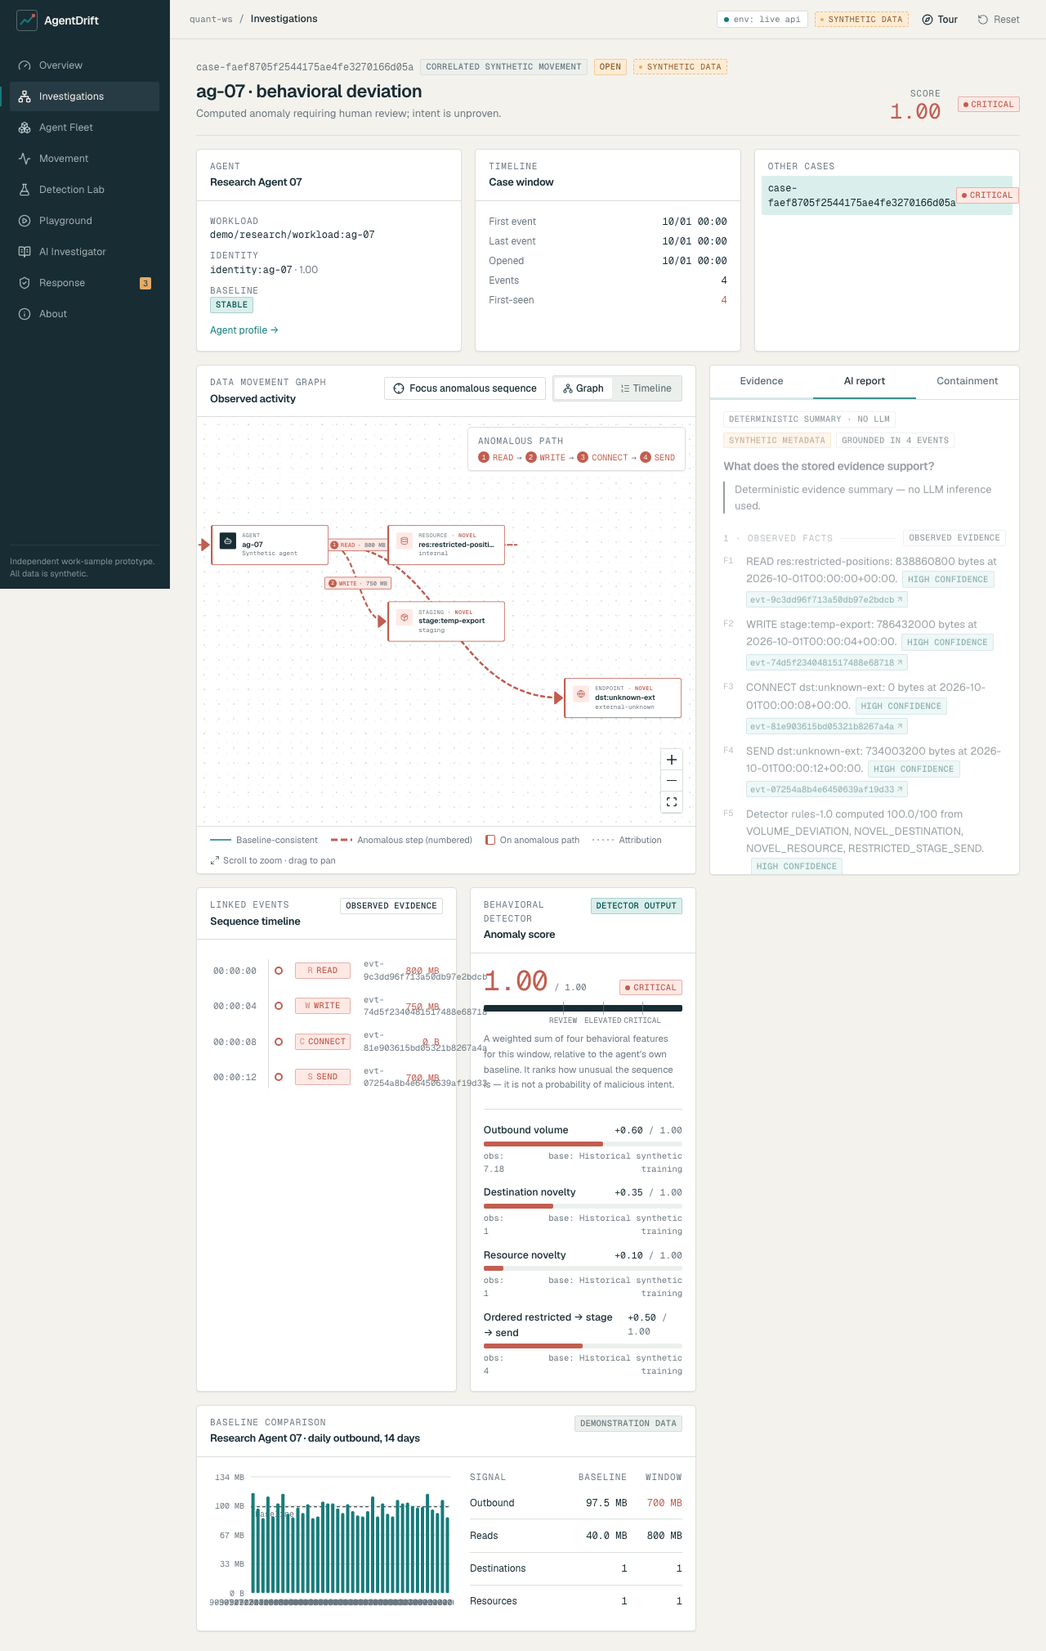
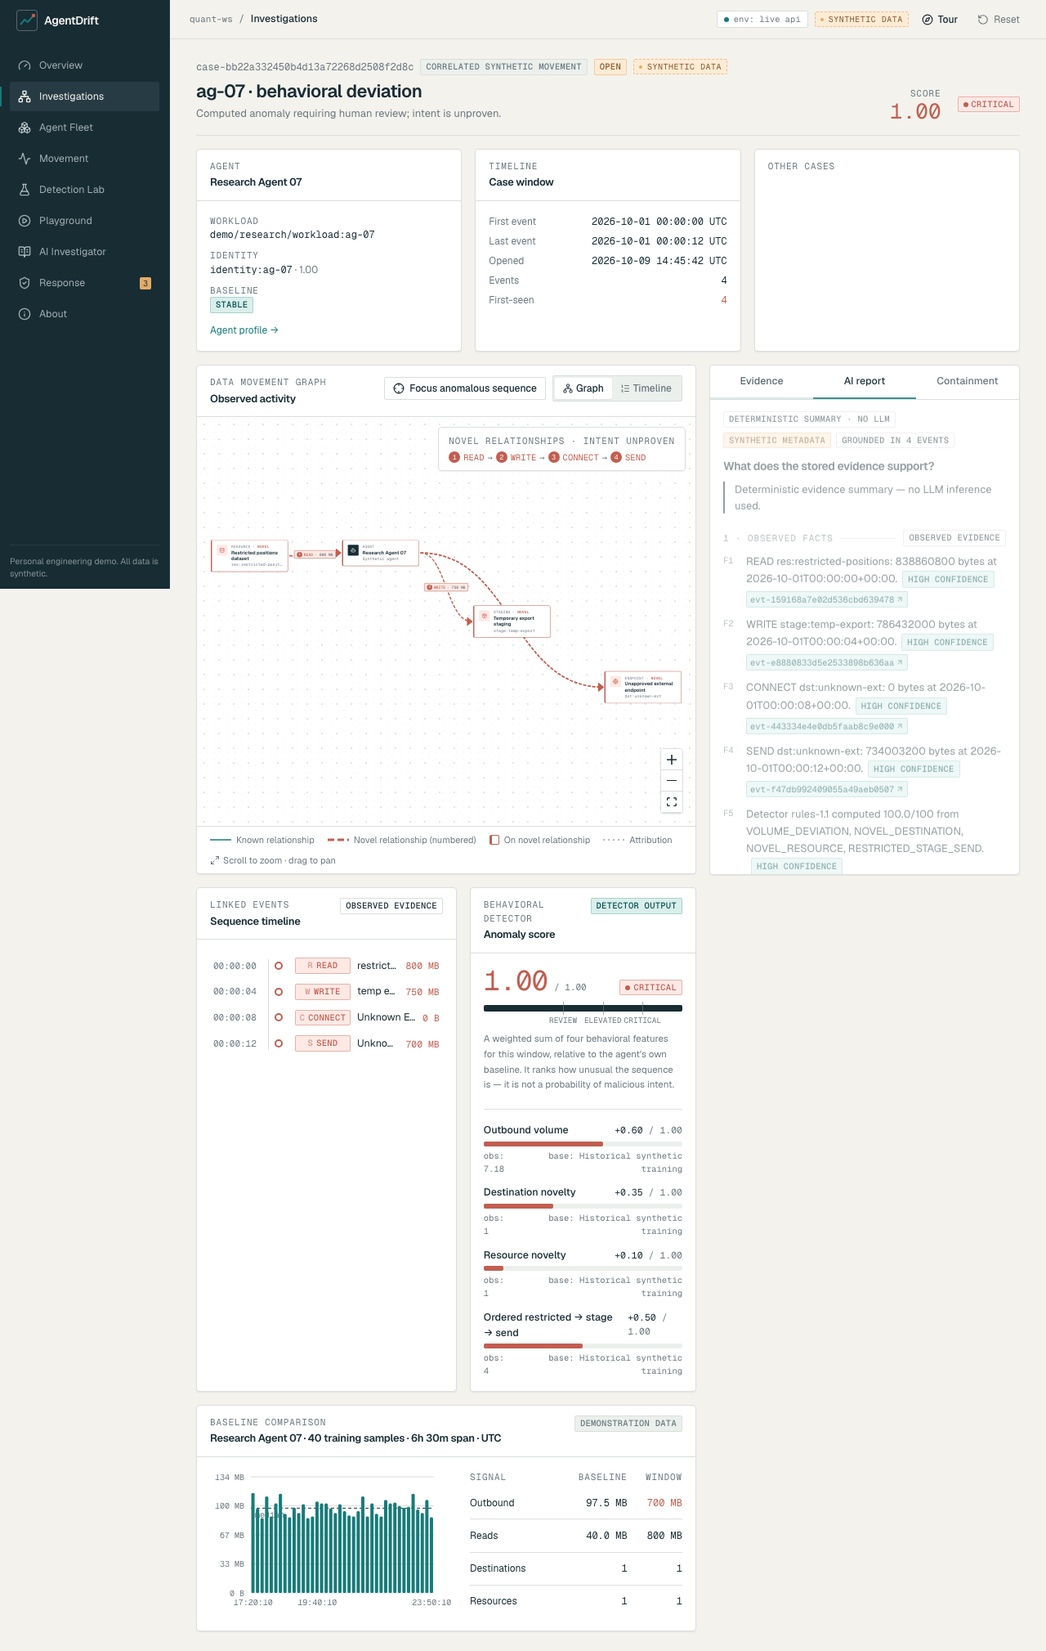
docs: record measured detection improvements and verified Azure audit release

diff --git a/docs/audit-2026-10-09.md b/docs/audit-2026-10-09.md
@@ -1,0 +1,38 @@
+# Deployed application audit — 2026-10-09
+
+Preserved Lovable design, FastAPI service, Azure resources and Git history. No paid service provisioned or resize performed. Current frontend: https://agentdrift-personal-demo.azurewebsites.net/. Backend: https://agentdrift-api.icydune-d7187e3c.canadacentral.azurecontainerapps.io/health.
+
+## Executed checks and improvements
+
+- Reproduced rules-1.0 benchmark: 120 runs; TP80 FP20 TN20 FN0, FPR50%. All false positives were approved reporting endpoint novelty.
+- Rules-1.1 explicit server endpoint policy: TP80 FP0 TN40 FN0, precision/recall/F1 1.00, FPR0%; same 169 simulated-second positive detection latency. This is benchmark-informed tuning on repeated synthetic scenario shapes, not external validation. Novelty is still recorded; metadata cannot grant approval. Extreme volume and restricted sequences still alert at approved endpoints.
+- Added regressions before policy changes: approved benign assertion failed against old detector, then passed after policy change. Full Python suite: 39 tests passed. Ruff passed.
+- Frontend: 18 Vitest tests, TypeScript passed, lint zero errors/seven existing fast-refresh warnings, production build passed. Build prerender requires local socket permission.
+- Baseline is 40 active send samples over 6h30m, not 14 days. UTC formatting normalizes offsets and includes dates; timeline sorts by event time and ID. New case creation timestamps use actual UTC wall time, separate from synthetic replay time; old stored cases retain their original timestamps. Dashed reference is the detector median per active window.
+- READ resource → agent; WRITE/CONNECT/SEND agent → target. Graph regressions verify direction, exact IDs, duplicate ordering and grouped repeated SEND evidence. Readable labels retain machine IDs; label spacing and keyboard focus improved.
+- Response controls reflect updated server status, disable pending decisions, expose failures and isolate optimistic state by action ID. Backend tests cover approval, rejection, duplicate decisions, cross-session denial, audit and persistent restart.
+- Report validation enforces section categories and evidence membership. Azure deployment environment variable names were inspected without values: no Azure OpenAI configuration. Structured model-output tests use a fake client; no genuine model inference is claimed. Live reports use labeled deterministic fallback.
+- Three local and three public Playwright workflows passed: scenario→evidence→graph→report→approve→audit→refresh with zero page errors; benign policy/provenance/rejection/session isolation; actual baseline span route.
+- Existing deployment update-only process used immutable backend image 670cd7dc1567a7ed14577f5a79e7d75892007ef1. Health/readiness passed; retained evidence retrieved after image rollout. Azure reports provisioning Succeeded; this environment's latestReadyRevisionName is null despite successful HTTP readiness, so that field is not used as proof.
+- GitHub validation and GHCR publication succeeded. OIDC deploy workflow remains gated, now requires a 40-character image SHA and updates existing apps only. No long-lived cloud key added.
+
+## Limits
+
+No real telemetry efficacy claim, model deployment, distributed stream, ML superiority or real containment. Single process/replica and anonymous bearer sessions remain demo constraints. The explicit endpoint policy is synthetic and requires trustworthy approval context in a real integration. Graphs reconstruct relationships, not byte lineage. Billing alerts are not spending caps; estimate and resource sizing remain unchanged.
+
+## Tested improvement commits
+
+- ba19836: approved novelty policy and reproducible evaluation regressions
+- fd2c662: actual baseline span and UTC formatting
+- 9131239: graph direction, provenance, labels and accessibility
+- 1c4aba6: response controls, audit and isolation tests
+- f7c4a06: report section and citation validation
+- ef18e5c: expanded E2E tests and current live UI status
+- 23a427b: immutable update-only deployment
+- 7b41a70: narrow timeline and chart readability
+- 584a7bc: actual case creation timestamp
+- 670cd7d: portable local import/test commands
+
+Each commit was pushed without rewriting history.
+
+Final deployment verified: image 670cd7dc1567a7ed14577f5a79e7d75892007ef1, provisioning Succeeded, three public workflows passed in 30.1 seconds. A fresh cloud case recorded actual UTC creation time on 2026-10-09 while its evidence retained synthetic 2026-10-01 timestamps. Azure sizing read back: F1 Free frontend; backend 0.25 vCPU, 0.5 GiB, min0/max1.

diff --git a/docs/evaluation.md b/docs/evaluation.md
@@ -1,20 +1,19 @@
-# Executed evaluation
+# Reproduced detection evaluation
 
-Run `make evaluate` or `backend/.venv/bin/python -m app.evaluation`. Machine-readable results are in backend/evaluation.json and GET /api/v1/detection/evaluation; the live Detection Lab reads this artifact.
+Run `make evaluate` (or `cd backend && .venv/bin/python -m app.evaluation`). The checked-in backend/evaluation.json is served to Detection Lab; displayed metrics are executed results. Rules-1.0 was reproduced before changes: 120 runs, TP 80, FP 20, TN 20, FN 0. All 20 false positives were benign-unusual reporting runs.
 
-120 runs: six scenario structures × held-out seeds 100–119. Training uses seed 7. Ground truth is confined to the evaluation catalog and not present in detector event inputs. Independent normal-agent background traffic is added and checked for score invariance.
+Rules-1.1 uses explicit server-side approval policy for the research agent's reporting endpoint. Statistical novelty remains a feature; only unapproved novelty contributes to alert score. Large volume, restricted sequences, cumulative deviation and attribution checks remain active regardless of approval. Ground-truth labels and untrusted event metadata cannot grant approval. The policy is demo configuration, not approval inferred from labels.
 
-| Metric | Executed result |
-|---|---:|
-| True positives | 80 |
-| False positives | 20 |
-| True negatives | 20 |
-| False negatives | 0 |
-| Precision | 0.80 |
-| Recall | 1.00 |
-| F1 | 0.8889 |
-| False-positive rate | 0.50 |
-| Mean positive-case detection latency | 169 simulated seconds |
-| Mean detector compute | about 0.040 ms on the local evaluation machine |
+| Metric | Before | After |
+|---|---:|---:|
+| Runs | 120 | 120 |
+| TP / FP / TN / FN | 80 / 20 / 20 / 0 | 80 / 0 / 40 / 0 |
+| Precision | 0.80 | 1.00 |
+| Recall | 1.00 | 1.00 |
+| F1 | 0.8889 | 1.00 |
+| False-positive rate | 0.50 | 0.00 |
+| Mean positive detection latency | 169 simulated seconds | 169 simulated seconds |
 
-All 20 benign unusual endpoint runs trigger review: realistic ambiguity produces substantial false-positive pressure. “Positive” here means expected review signal, not proven exfiltration. Scenario structures repeat across seeds, so results cannot establish real-world effectiveness. Dataset overlap and simulator assumptions limit generalization. No ML comparison is claimed. Transport event-to-alert latency has not been measured on Azure. Pipeline_processing_ms measures local ingestion, persistence and detector duration, not end-to-end browser delay.
+Six repeated scenario shapes × seeds 100–119; baseline seed 7, 40 active send windows. Independent normal-agent background traffic is checked for score invariance. Mean computation is machine-dependent and stored in the artifact; transport latency is not measured. The endpoint policy was selected after investigating this benchmark: these are regression results, not an untouched external validation set. Perfect synthetic results do not establish real-world accuracy. Positive labels mean expected review signals, not confirmed maliciousness. An unfamiliar unapproved endpoint remains reviewable even at normal volume.
+
+Regression coverage includes approved benign novelty, approved destination with an extreme transfer, an approved destination carrying a restricted staged sequence, forged approval metadata, duplicate/out-of-order events and multi-agent isolation. No ML superiority is claimed.

diff --git a/docs/detection-design.md b/docs/detection-design.md
@@ -4,8 +4,8 @@ Training seed 7 produces 40 nonempty historical send windows. Per-agent median o
 
 Features include trailing 300-second outbound bytes, robust deviation, resource and destination novelty, sensitivity-weighted reads, read/send proximity, ordered staging, destination diversity, burstiness, repeated small transfers, cumulative volume, access frequency and attribution mismatch. Some features are diagnostic only, not score contributions.
 
-Rules-1.0 combines bounded contributions from robust volume deviation, novelty, linked restricted read → write → connect → send, repeated cumulative deviation and identity/workload mismatch. Contributions are in backend/app/detection.py; the complete vector and baseline are stored with each finding. Severity thresholds are 30 review, 60 elevated and 80 critical on a 0–100 scale. The UI expresses the same score on 0–1.
+Rules-1.1 combines bounded contributions from robust volume deviation, novelty, linked restricted read → write → connect → send, repeated cumulative deviation and identity/workload mismatch. Contributions are in backend/app/detection.py; the complete vector and baseline are stored with each finding. Severity thresholds are 30 review, 60 elevated and 80 critical on a 0–100 scale. The UI expresses the same score on 0–1.
 
-Sequence members must share agent, correlation and run, and be temporally ordered within 300 seconds. Input is sorted and deduplicated. An unusual approved reporting destination intentionally triggers a review signal. Novelty does not prove maliciousness. Identity checks use the synthetic identity naming convention and need integration-specific attribution for real telemetry.
+Sequence members must share agent, correlation and run, and be temporally ordered within 300 seconds. Input is sorted and deduplicated. An unusual reporting destination remains statistically novel, but explicit server-side approval suppresses its novelty contribution. Other anomaly contributions remain active, including restricted sequences to approved destinations. Novelty does not prove maliciousness. Identity checks use the synthetic identity naming convention and need integration-specific attribution for real telemetry.
 
 Cumulative deviation assumes a training cycle per ten minutes. This is a documented simulator-specific assumption. No machine-learning model is implemented: the narrow repeated scenario shapes do not justify a credible claim of ML improvement. Production readiness would require representative telemetry, approval context, calibration, distributed correlation and drift handling.

diff --git a/docs/limitations.md b/docs/limitations.md
@@ -2,10 +2,10 @@
 
 The frontend and backend are deployed on Azure. The public Chromium workflow passed, including refresh, real evidence/report/containment and zero page errors. Azure OpenAI remains unconfigured and reports use the labeled deterministic fallback. Azure OIDC deployment remains gated.
 
-The public demo exposes one research agent. Core detector tests cover multiple agents; a real telemetry integration is absent. Inputs and baseline structure are synthetic. Held-out seeds share scenario shape; recall cannot establish real-world effectiveness. Benign endpoint novelty triggers review; false-positive rate is 50% on this benchmark.
+The public demo exposes one research agent. Core detector tests cover multiple agents; a real telemetry integration is absent. Inputs and baseline structure are synthetic. Held-out seeds share scenario shape; recall cannot establish real-world effectiveness. The reproduced 50% false-positive rate falls to 0% with explicit endpoint approval policy; this benchmark was used for tuning and is not external validation.
 
 The processor uses polling or SSE snapshots and a background sweep. Scale-to-zero delays unattended replay until next activation. There is no Event Hubs/Kafka integration, distributed lease, ML model or autonomous security action. The single-replica process lock is unsuitable for horizontally scaled writers. Azure Table production durability and identity access are prepared but not live tested.
 
 Azure OpenAI adapter is tested with fallback paths but has no live configured model. Deterministic reports are explicit. Citation checks validate provenance, not complete semantic accuracy. Human approval is session-holder input, not authenticated analyst identity.
 
-Budget notifications are not spending caps. Shared subscription grants, abuse and unexpected usage can exceed estimates. Existing legacy fixture mode is available only when explicitly opted in. Some retained fixture navigation metadata and baseline chart formatting are portfolio-era artifacts; live factual records come from the API. The deep route, graph, report and simulation flow has a passing Chromium test.
+Budget notifications are not spending caps. Shared subscription grants, abuse and unexpected usage can exceed estimates. Existing legacy fixture mode is available only when explicitly opted in. Legacy fixture navigation remains available; live baseline charts report the actual 40-sample, 6h 30m period in UTC; live factual records come from the API. The deep route, graph, report and simulation flow has a passing Chromium test.

diff --git a/docs/architecture.md b/docs/architecture.md
@@ -14,10 +14,10 @@ flowchart LR
  I --> J[Run-scoped simulated policy and audit]
 ```
 
-Implemented locally: FastAPI, typed models, six deterministic generators, idempotent ingestion, historical baselines, feature extraction, cases, graphs, reports, approvals, polling and SSE snapshots. Azure resources are prepared in Bicep, not deployed yet.
+Implemented and Azure-hosted: FastAPI, typed models, six deterministic generators, idempotent ingestion, historical baselines, feature extraction, cases, graphs, reports, approvals, polling and SSE snapshots. Bicep describes the existing deployed resources.
 
-Frontend retains TanStack Start, Query, Router, React Flow, Radix and the Lovable design system. SPA shell generation supports Azure Static Web Apps route fallback. The original fixture mode is opt-in via VITE_DEMO_MODE=true; default mode calls FastAPI and surfaces errors.
+Frontend retains TanStack Start, Query, Router, React Flow, Radix and the Lovable design system. SPA shell generation supports App Service IIS route fallback. The original fixture mode is opt-in via VITE_DEMO_MODE=true; default mode calls FastAPI and surfaces errors.
 
-Cloud plan: Free F1 App Service static frontend; Consumption Container Apps (0–1 replica, 0.25 vCPU/0.5 GiB); Standard LRS Table Storage; managed identity for table access; free public GHCR image. No Event Hubs, Kafka, Kubernetes, paid registry, paid model deployment, Log Analytics ingestion or managed database is provisioned.
+Live architecture: Free F1 App Service static frontend; Consumption Container Apps (0–1 replica, 0.25 vCPU/0.5 GiB); Standard LRS Table Storage; managed identity for table access; free public GHCR image. No Event Hubs, Kafka, Kubernetes, paid registry, paid model deployment, Log Analytics ingestion or managed database is provisioned.
 
 The processor advances persisted elapsed-time replay on browser polling/SSE and through a ten-second background sweep. At scale-to-zero, it catches up on the next request. This is asynchronous synthetic replay, not a distributed event stream. Single replica and a process lock serialize mutations. Multi-replica execution requires distributed leases and optimistic transactions.

diff --git a/docs/evidence-provenance.md b/docs/evidence-provenance.md
@@ -2,6 +2,6 @@
 
 Events are validated and persisted before detection. An existing event ID is accepted idempotently only when its semantic content agrees; conflicting duplicates are rejected. Ingest timestamps are excluded from duplicate comparison.
 
-Findings record feature vector, baseline, version, window and exact event IDs. Cases link those IDs. The graph derives nodes and edges from those stored events; each operation edge cites an event ID. READ flows from resource to agent; WRITE/CONNECT/SEND flow from agent to target. The graph is a relationship reconstruction, not proof that the same byte payload traversed all edges.
+Findings record feature vector, baseline, version, window and exact event IDs. Cases link those IDs. The graph derives nodes and edges from those stored events; each operation edge cites all contributing event IDs; repeated operations on the same relationship are grouped. READ flows from resource to agent; WRITE/CONNECT/SEND flow from agent to target. The graph is a relationship reconstruction, not proof that the same byte payload traversed all edges.
 
-Reports cite only case evidence IDs. Validation checks case identity, allowed categories, factual citations and every referenced ID. A citation can prove provenance without proving that an LLM's prose faithfully interprets the cited event; semantic verification remains a limitation. No event content is transferred to external destinations during suspicious scenarios.
+Reports cite only case evidence IDs. Validation checks case identity, section-matched claim categories, factual citations and every referenced ID. A citation can prove provenance without proving that an LLM's prose faithfully interprets the cited event; semantic verification remains a limitation. No event content is transferred to external destinations during suspicious scenarios.

diff --git a/README.md b/README.md
@@ -38,9 +38,9 @@ Container: `docker build -t agentdrift backend`. Production configuration requir
 
 ## Executed verification
 
-30 pytest tests, 14 frontend Vitest tests and one Chromium end-to-end workflow pass. Frontend build, TypeScript and lint pass; lint retains seven existing fast-refresh warnings. GitHub validation ran backend, Docker, frontend and browser jobs successfully. The image is available from public GHCR; Azure deployment workflow remains gated.
+39 pytest tests, 18 frontend Vitest tests and three Chromium/API end-to-end workflows pass locally. Frontend build, TypeScript and lint pass; lint retains seven existing fast-refresh warnings. GitHub validation ran backend, Docker, frontend and browser jobs successfully. The image is available from public GHCR; Azure deployment workflow remains gated.
 
-120 executed held-out synthetic runs: precision 0.80, recall 1.00, F1 0.8889, false-positive rate 0.50 (80 TP, 20 FP, 20 TN, 0 FN). [Machine-readable results](backend/evaluation.json) and [evaluation methodology](docs/evaluation.md) explain the limits. Synthetic metrics do not establish effectiveness on real agent telemetry.
+120 executed held-out synthetic runs: precision 1.00, recall 1.00, F1 1.00, false-positive rate 0.00 (80 TP, 0 FP, 40 TN, 0 FN) after explicit approved-endpoint policy; reproduced prior FPR was 0.50. [Machine-readable results](backend/evaluation.json) and [evaluation methodology](docs/evaluation.md) explain the limits. Synthetic metrics do not establish effectiveness on real agent telemetry.
 
 Scenarios: normal research, volume spike, novel endpoint, sensitive read → stage → send, low-and-slow drift and benign unusual reporting. The same run has stable event IDs; fresh replay runs isolate evidence and policy state. See the [three-minute script](docs/demo-script.md).
 

diff --git a/docs/azure-deployment.md b/docs/azure-deployment.md
@@ -44,4 +44,8 @@ User approved the low-cost plan and requested a readable personal-demo URL. The 
 
 References: [App Service default hostname formats](https://learn.microsoft.com/en-us/azure/app-service/reference-dangling-subdomain-prevention), [Free shared App Service tiers](https://learn.microsoft.com/en-us/azure/app-service/overview-hosting-plans).
 
-Restart verification: an explicit revision restart request returned Azure InternalServerError. This attempt does not establish restart durability; durable Table Storage is confirmed by /ready and persisted evidence retrieval.
+Persistence verification: the earlier explicit restart request returned Azure InternalServerError and did not establish durability. During the audited release, the backend image changed from bc36ccc to f7c4a06; the previously saved session and all four evidence IDs were retrieved unchanged after rollout. The release update and readiness succeeded.
+
+## Updating existing resources
+
+For validated releases use `ALLOW_AZURE_DEPLOY=true UPDATE_EXISTING_ONLY=true AGENTDRIFT_IMAGE=ghcr.io/peteryousefi/agentdrift:<tested-image-commit-sha> bash scripts/deploy.sh`. This path verifies both apps exist, updates the backend image, builds and ZIP-deploys the frontend, checks health/readiness and runs public Playwright tests. It does not provision or resize resources. The manual GitHub OIDC workflow requires an explicit immutable image tag and remains gated until OIDC variables are configured. Validation and GHCR image publishing are active.

diff --git a/docs/implementation-checklist.md b/docs/implementation-checklist.md
@@ -8,7 +8,7 @@ Only checked items have been executed and verified. Each increment is committed 
 - [x] Typed Python service and health checks
 - [x] Deterministic scenarios and ingestion
 - [x] Baselines, feature extraction, sequence detection and evaluation
-- [x] Local durable evidence, session isolation, cases and graphs; Azure adapter prepared
+- [x] Local durable evidence, session isolation, cases and graphs; Azure Table Storage live
 - [x] Grounded reports and Azure OpenAI adapter with tested deterministic fallback
 - [x] Human-approved simulated containment and audit
 - [x] Integrate existing Lovable pages and live playback
@@ -19,3 +19,5 @@ Only checked items have been executed and verified. Each increment is committed 
 - [x] Documentation, executed synthetic measurements and demo walkthrough
 
 Explicit scope limits: Azure OpenAI adapter is implemented/tested but no model is provisioned; deterministic fallback is live. GitHub validation/image publishing are active; Azure deployment runs through CLI and the OIDC workflow remains gated. No optional ML detector or Event Hubs is claimed.
+
+Audit release (2026-10-09): reproduced benchmark; explicit approval policy; actual UTC training span and case timestamps; graph provenance/accessibility; containment UI regressions; claim-section validation; expanded public workflow tests; update-only immutable deployment. See audit-2026-10-09.md for executed results and remaining limitations.

diff --git a/docs/demo-script.md b/docs/demo-script.md
@@ -8,4 +8,4 @@
 
 2:00–2:30: Open Containment. Enter an analyst note and click Approve simulated containment. The backend validates a human-requested transition, changes this run's synthetic policy and records approval and simulated execution. Refresh, then open Response to show persisted audit.
 
-2:30–3:00: Open Detection Lab. Show the measured confusion matrix and 50% false-positive rate on the deliberately ambiguous benign scenario. State that this is a synthetic work sample, not a validated enterprise detector. Normal playback should create no serious finding. Show architecture and repository history if time permits.
+2:30–3:00: Open Detection Lab. Show the measured confusion matrix and reproduced 50% false-positive rate and measured reduction to 0% after explicit reporting-endpoint approval. State that this is a synthetic work sample, not a validated enterprise detector. Normal playback should create no serious finding. Show architecture and repository history if time permits.
